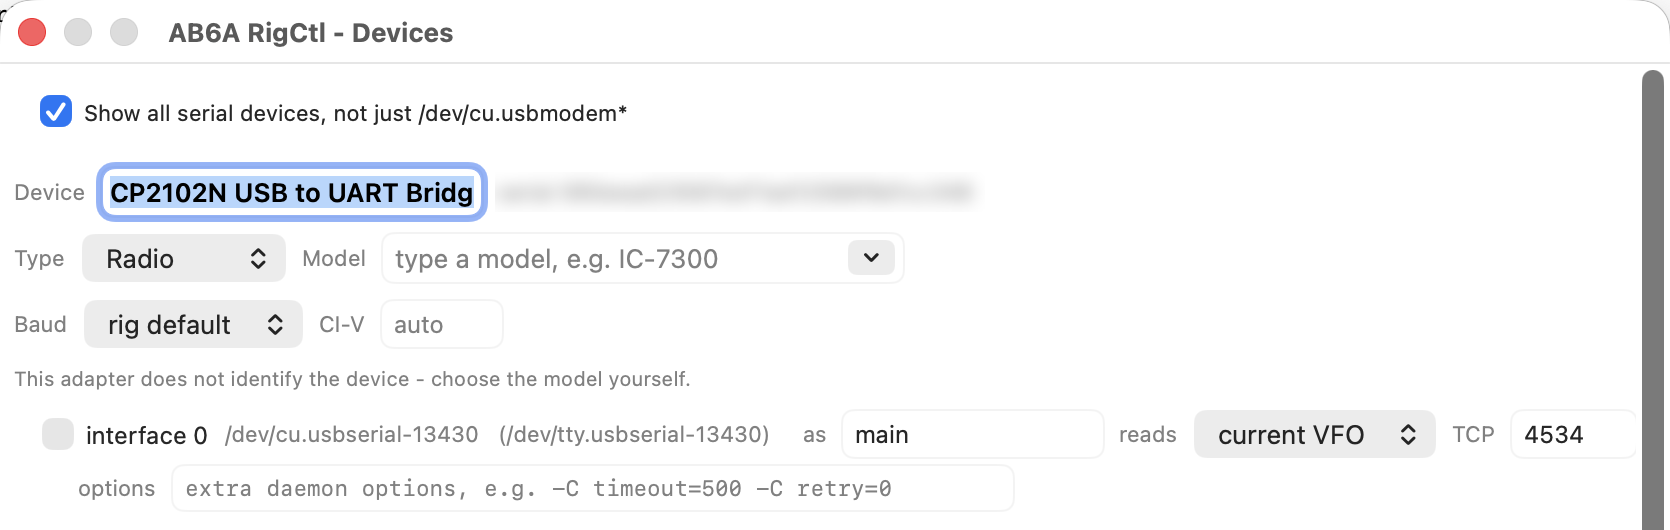
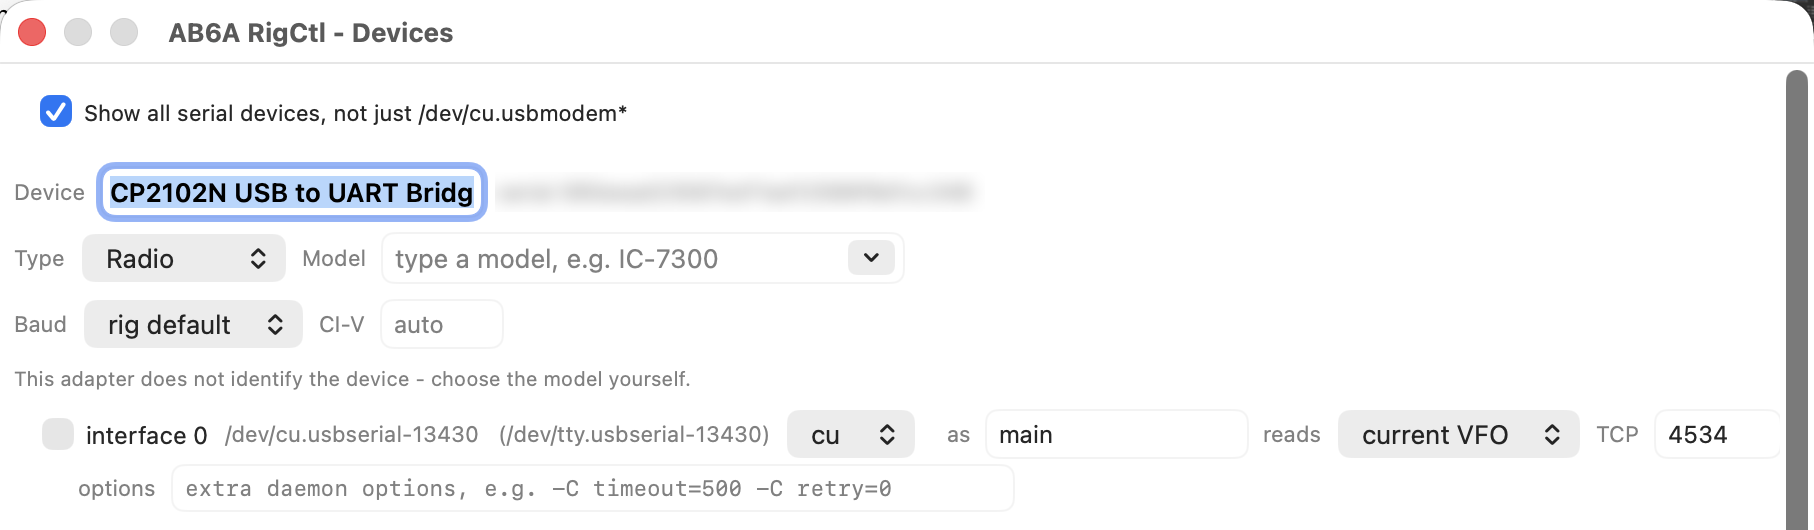
Show the cu/tty picker in the site screenshot
The published image showed both device nodes but predated being able to choose
between them.

Claude-Session: https://claude.ai/code/session_01JBrUeBQkPmRABKaMhT9zgK

diff --git a/docs/index.html b/docs/index.html
@@ -221,7 +221,7 @@ interface 3   class 10   CDC-Data  <span class="a">&rarr;</span>  /dev/cu.usbmod
       looks like this:
     </p>
 
-    <img src="config.png" alt="The Configure window with Show all serial devices ticked: a USB-serial adapter showing both its cu and tty device nodes, with type, model, baud, VFO, TCP port and extra daemon options"
+    <img src="config.png" alt="The Configure window: a USB-serial adapter showing both its cu and tty device nodes with a picker to choose between them, plus type, model, baud, VFO, TCP port and extra daemon options"
          style="width:100%;border-radius:10px;border:1px solid var(--line);
                 box-shadow:0 18px 44px rgba(0,0,0,.45)">
 
@@ -231,11 +231,13 @@ interface 3   class 10   CDC-Data  <span class="a">&rarr;</span>  /dev/cu.usbmod
       <code>--vfo</code> and so on, for rigs that need settings the defaults do not cover.
     </p>
     <p style="color:var(--muted);font-size:14px;margin:0 0 18px">
-      With <strong style="color:var(--ink)">Show all serial devices</strong> ticked, each interface
-      names both of the nodes macOS creates for a port &mdash; the call-out
-      <code>/dev/cu.*</code> that the daemon is given, and the dial-in
-      <code>/dev/tty.*</code> twin a port is often known by elsewhere. The adapter below cannot
-      say which radio is behind it, so its model and baud are set by hand.
+      macOS creates two nodes for every serial port, and each interface names both: the call-out
+      <code>/dev/cu.*</code> and the dial-in <code>/dev/tty.*</code> twin a port is often known by
+      elsewhere. The <strong style="color:var(--ink)">cu / tty</strong> picker chooses which one
+      the daemon is given &mdash; <code>cu</code> by default, since it opens immediately where
+      <code>tty</code> waits on carrier detect, but setups built around the <code>tty.*</code> name
+      work without a fight. The adapter below cannot say which radio is behind it, so its model
+      and baud are set by hand.
     </p>
     <p style="color:var(--muted);font-size:15px;margin:18px 0 0">
       Point WSJT-X at <code style="color:var(--accent)">localhost:4532</code> and your logger at
